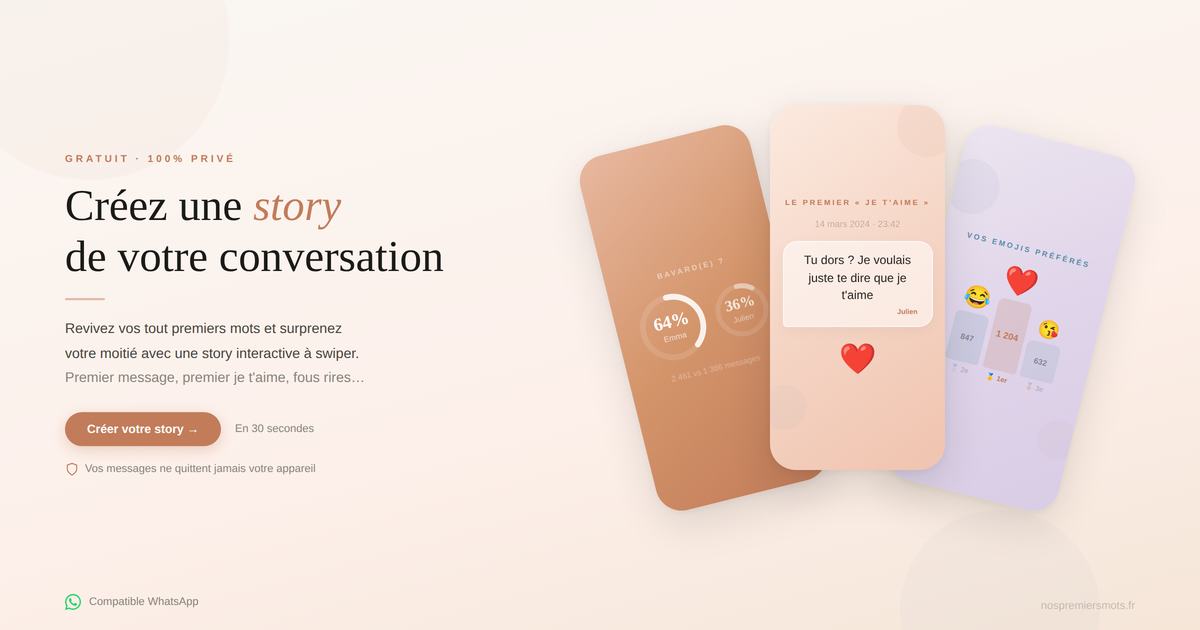
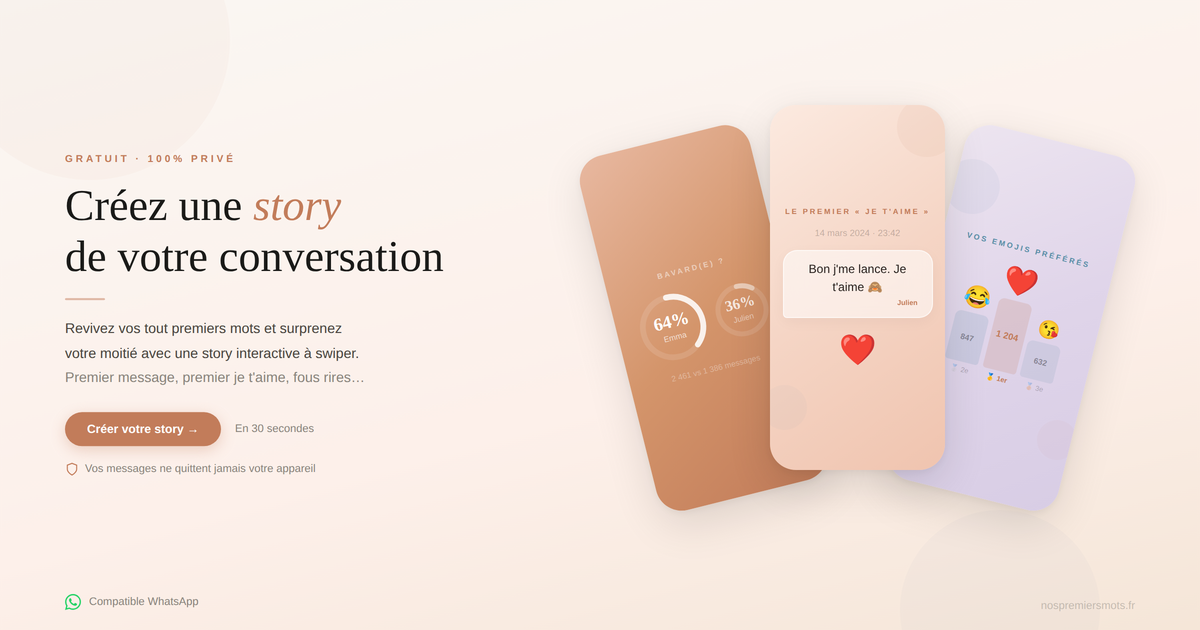
Add files via upload

Changed region(s): [[0.6475, 0.3016, 0.7708, 0.6032]]

diff --git a/index.html b/index.html
@@ -8,7 +8,7 @@
 <link rel="apple-touch-icon" sizes="180x180" href="apple-touch-icon.png">
 <meta name="viewport" content="width=device-width, initial-scale=1.0, maximum-scale=1.0, user-scalable=no">
 <title>Nos premiers mots — Votre histoire en story</title>
-<meta name="description" content="Redécouvrez vos tout premiers messages WhatsApp — le premier salut, les premiers fous rires, le premier je t'aime. Plus des stats cachées : qui est le plus bavard, emojis préférés, jour record. Story interactive gratuite à swiper ensemble.">
+<meta name="description" content="Redécouvrez vos tout premiers messages WhatsApp — le premier salut, les premiers fous rires, le premier je t'aime. Premier message, premier je t'aime, qui est le plus bavard, emojis préférés, jour record… Story interactive gratuite à swiper ensemble.">
 <link rel="preconnect" href="https://fonts.googleapis.com">
 <link href="https://fonts.googleapis.com/css2?family=Playfair+Display:ital,wght@0,400;0,500;0,600;1,400;1,500&family=Inter:wght@300;400;500;600&display=swap" rel="stylesheet">
 <style>
@@ -358,96 +358,73 @@
   .hc-podium-rank { font-size: 7px; color: rgba(0,0,0,0.25); margin-top: 2px; }
 
   @media (max-width: 900px) {
-    .hero { padding: 100px 24px 40px; min-height: auto; }
-    .hero-layout { flex-direction: column; gap: 20px; }
-    .hero-text { flex: none; width: 100%; text-align: center; }
-    .hero-cta-row { justify-content: center; }
-    .hero-privacy { justify-content: center; }
-    .hero-ami { text-align: center; }
-    .hero-compat { justify-content: center; }
+    .hero { padding: 90px 24px 20px; min-height: auto; }
+    .hero-layout { flex-direction: column; gap: 0; }
+    .hero-text {
+      flex: none; width: 100%; text-align: center;
+      position: relative; z-index: 5;
+    }
+    .hero h1 { font-size: 32px; }
+    .hero-sub { font-size: 14px; margin-bottom: 20px; }
+    .hero-cta-row { justify-content: center; margin-bottom: 12px; }
+    .hero-privacy { justify-content: center; margin-bottom: 6px; }
+    .hero-ami { text-align: center; margin-bottom: 6px; }
+    .hero-compat { justify-content: center; margin-bottom: 0; }
     .hero-trust { justify-content: center; }
-    .hero-cards { height: 340px; width: 100%; max-width: 400px; margin: 0 auto; }
-    .hc { width: 130px; height: 280px; border-radius: 20px; padding: 12px 8px; }
-    .hc-1 { --fan: -23deg; }
-    .hc-2 { --fan: -8deg; }
-    .hc-3 { --fan: 8deg; }
-    .hc-4 { --fan: 23deg; }
-    .hc:hover { transform: translateX(-50%) rotate(var(--fan)) translateY(-20px) scale(1.03) !important; }
-    .hc-chat-bubble { max-width: 105px; padding: 6px 8px; }
-    .hc-chat-text { font-size: 9px; }
-    .hc-love-heart { font-size: 22px; margin-top: 8px; }
-    .hc-podium-bar { width: 24px; }
-    .hc-msg { font-size: 8px; padding: 5px 7px; }
-    .hc-msg-more { font-size: 8px; }
-    .hc-label { font-size: 6px; letter-spacing: 2px; margin-bottom: 10px; }
-    .hc-bavard-sub { font-size: 7px; }
-    .hc-love-date { font-size: 7px; }
-  }
-  .hero-form {
-    display: flex;
-    gap: 10px;
-    max-width: 440px;
-    margin: 0 auto 16px;
-  }
-  .hero-form input {
-    flex: 1;
-    padding: 14px 20px;
-    font-size: 14px;
-    font-family: var(--font-body);
-    border: 1px solid var(--border);
-    border-radius: 100px;
-    background: white;
-    outline: none;
-    transition: border-color 0.2s;
-  }
-  .hero-form input:focus { border-color: var(--rose); }
-  .hero-form input::placeholder { color: var(--ink-muted); }
-  .hero-form button {
-    padding: 14px 28px;
-    font-size: 14px;
-    font-weight: 500;
-    font-family: var(--font-body);
-    background: var(--rose);
-    color: white;
-    border: none;
-    border-radius: 100px;
-    cursor: pointer;
-    white-space: nowrap;
-    transition: transform 0.2s, opacity 0.2s;
-  }
-  .hero-form button:hover { transform: scale(1.03); opacity: 0.9; }
-  .hero-note {
-    font-size: 12px;
-    color: var(--ink-muted);
+    .hero-cards {
+      position: relative;
+      width: 100%;
+      margin: 20px auto 0;
+      display: flex;
+      justify-content: center;
+      padding: 0 10px;
+    }
+    .hc {
+      position: relative;
+      width: 105px;
+      height: 220px;
+      border-radius: 16px;
+      padding: 10px 7px;
+      bottom: auto; left: auto; top: auto;
+      transform-origin: center;
+      transform: none;
+      margin-left: -18px;
+      flex-shrink: 0;
+    }
+    .hc:first-child { margin-left: 0; }
+    .hc-1 { transform: rotate(-4deg); z-index: 1; }
+    .hc-2 { transform: rotate(-1deg) translateY(-6px); z-index: 2; }
+    .hc-3 { transform: rotate(1deg) translateY(-6px); z-index: 3; }
+    .hc-4 { transform: rotate(4deg); z-index: 2; }
+    .hc:hover {
+      transform: translateY(-10px) scale(1.03) !important;
+      z-index: 10 !important;
+    }
+    .hc-label { font-size: 5px; letter-spacing: 1.5px; margin-bottom: 6px; }
+    .hc-ring-wrap { gap: 4px; }
+    .hc-ring-wrap svg { width: 44px; height: 44px; }
+    .hc-ring-pct { font-size: 12px !important; }
+    .hc-ring-name { font-size: 6px; }
+    .hc-bavard-sub { font-size: 5px; margin-top: 4px; }
+    .hc-chat-bubble { max-width: 90px; padding: 4px 6px; margin-bottom: 3px; }
+    .hc-chat-sender { font-size: 4px; }
+    .hc-chat-text { font-size: 8px; line-height: 1.3; }
+    .hc-chat-time { font-size: 3.5px; }
+    .hc-love-date { font-size: 5px; margin-bottom: 5px; }
+    .hc-love-heart { font-size: 18px; margin-top: 4px; }
+    .hc-podium { gap: 3px; }
+    .hc-podium-bar { width: 18px; }
+    .hc-podium-count { font-size: 6px; }
+    .hc-podium-rank { font-size: 4.5px; }
+    .hc-podium-item div[style*="font-size:22px"] { font-size: 16px !important; }
+    .hc-podium-item div[style*="font-size:28px"] { font-size: 20px !important; }
+    .hc-podium-item div[style*="font-size:18px"] { font-size: 14px !important; }
+    .hc-msg { font-size: 6px; padding: 3px 5px; }
+    .hc-msg-sender { font-size: 4px; }
+    .hc-msg-time { font-size: 3px; }
+    .hc-msg-more { font-size: 6px; margin-top: 4px; }
   }
 
-  /* ═══ PLATFORMS ═══ */
-  .platforms {
-    margin-top: 32px;
-    text-align: center;
-  }
-  .platform-label {
-    font-size: 11px;
-    color: var(--ink-muted);
-    letter-spacing: 1px;
-    text-transform: uppercase;
-    display: block;
-    margin-bottom: 12px;
-  }
-  .platform-logos {
-    display: flex;
-    justify-content: center;
-    gap: 24px;
-    flex-wrap: wrap;
-  }
-  .platform-item {
-    display: flex;
-    align-items: center;
-    gap: 6px;
-    font-size: 13px;
-    color: var(--ink-soft);
-    font-weight: 400;
-  }
 
   /* ═══ PHONE MOCKUP ═══ */
   .mockup-section {
@@ -1413,8 +1390,6 @@
   /* ═══ RESPONSIVE ═══ */
   @media (max-width: 600px) {
     nav { padding: 12px 16px; }
-    .hero-form, .final-form { flex-direction: column; }
-    .hero-form button, .final-form button { width: 100%; }
     .formats-grid { grid-template-columns: 1fr; }
     .phone-wrapper { max-width: 200px; }
   }
@@ -1473,82 +1448,6 @@
     font-size: 18px;
     color: var(--rose);
     font-style: italic;
-  }
-  /* ═══ FAN OF CARDS ═══ */
-  .fan-section { padding: 60px 24px 80px; overflow: hidden; }
-  .fan-container { max-width: 900px; margin: 0 auto; position: relative; height: 420px; }
-  .fan-card {
-    position: absolute;
-    width: 200px; height: 400px;
-    border-radius: 28px;
-    display: flex; flex-direction: column; align-items: center; justify-content: center;
-    padding: 22px 14px;
-    box-shadow: 0 16px 48px rgba(0,0,0,0.10), 0 4px 12px rgba(0,0,0,0.05);
-    overflow: hidden; text-align: center;
-    left: 50%; top: 50%;
-    transform-origin: 50% 100%;
-    transition: transform 0.6s cubic-bezier(0.23,1,0.32,1);
-  }
-  .fan-card .fc-shape { position: absolute; border-radius: 50%; pointer-events: none; }
-  .fan-card .fc-label {
-    font-size: 8px; letter-spacing: 2.5px; text-transform: uppercase;
-    font-weight: 600; margin-bottom: 14px; z-index: 1;
-  }
-  /* Left: Bavard */
-  .fan-card-1 {
-    background: linear-gradient(145deg, #E8B8A0, #D4956B 50%, #C27C5A);
-    transform: translate(-50%, -50%) rotate(-14deg) translateX(-110px);
-    z-index: 1;
-  }
-  .fc-ring-wrap { display: flex; gap: 8px; align-items: center; z-index: 1; }
-  .fc-ring { position: relative; display: flex; align-items: center; justify-content: center; }
-  .fc-ring-inner { position: absolute; display: flex; flex-direction: column; align-items: center; }
-  .fc-ring-pct { font-family: var(--font-display); font-weight: 700; color: #fff; }
-  .fc-ring-name { font-size: 9px; margin-top: 2px; }
-  .fc-bavard-sub { font-size: 9px; color: rgba(255,255,255,0.35); margin-top: 12px; z-index: 1; }
-  /* Center: Je t'aime */
-  .fan-card-2 {
-    background: linear-gradient(145deg, #FCEAE0, #F5D5C5 50%, #F0C4AF);
-    transform: translate(-50%, -50%) rotate(0deg);
-    z-index: 3;
-  }
-  .fc-love-date { font-size: 10px; color: rgba(0,0,0,0.22); margin-bottom: 14px; z-index: 1; }
-  .fc-love-bubble {
-    background: rgba(255,255,255,0.55); backdrop-filter: blur(12px);
-    border-radius: 16px 16px 16px 4px; padding: 12px 16px; max-width: 170px;
-    border: 1px solid rgba(255,255,255,0.6);
-    box-shadow: 0 4px 16px rgba(0,0,0,0.04); z-index: 1;
-  }
-  .fc-love-text { font-size: 14px; color: #2A2320; line-height: 1.5; }
-  .fc-love-sender { font-size: 8px; color: rgba(0,0,0,0.22); margin-top: 5px; text-align: right; }
-  .fc-love-sender strong { color: var(--rose); font-weight: 600; }
-  .fc-love-heart { margin-top: 16px; font-size: 36px; z-index: 1; }
-  /* Right: Emojis */
-  .fan-card-3 {
-    background: linear-gradient(145deg, #EDE5F0, #E0D5EA 50%, #D8CDE5);
-    transform: translate(-50%, -50%) rotate(14deg) translateX(110px);
-    z-index: 2;
-  }
-  .fc-podium { display: flex; align-items: flex-end; gap: 5px; margin-bottom: 10px; z-index: 1; }
-  .fc-podium-item { display: flex; flex-direction: column; align-items: center; gap: 3px; }
-  .fc-podium-bar {
-    width: 38px; border-radius: 7px 7px 3px 3px;
-    display: flex; align-items: center; justify-content: center; padding: 4px 0;
-  }
-  .fc-podium-count { font-size: 9px; font-weight: 700; color: rgba(0,0,0,0.35); }
-  .fc-podium-rank { font-size: 7px; color: rgba(0,0,0,0.25); margin-top: 2px; }
-
-  @media (max-width: 600px) {
-    .fan-container { height: 360px; }
-    .fan-card { width: 155px; height: 320px; padding: 16px 10px; border-radius: 22px; }
-    .fan-card-1 { transform: translate(-50%, -50%) rotate(-12deg) translateX(-80px); }
-    .fan-card-3 { transform: translate(-50%, -50%) rotate(12deg) translateX(80px); }
-    .fc-ring-wrap svg { width: 60px; height: 60px; }
-    .fc-ring-pct { font-size: 15px !important; }
-    .fc-love-bubble { max-width: 130px; padding: 10px 12px; }
-    .fc-love-text { font-size: 12px; }
-    .fc-love-heart { font-size: 28px; }
-    .fc-podium-bar { width: 30px; }
   }
 </style>
 <meta property="og:image" content="https://azorzki.github.io/nospremiersmots/og-image.png">
@@ -1644,7 +1543,7 @@
         <div class="hc-love-date">14 mars 2024 · 23:42</div>
         <div class="hc-chat-bubble">
           <div class="hc-chat-sender">Julien</div>
-          <div class="hc-chat-text">Hey... je crois bien que je t'aime</div>
+          <div class="hc-chat-text">Bon j'me lance. Je t'aime 🙈</div>
           <div class="hc-chat-time">23:42</div>
         </div>
         <div class="hc-love-heart">❤</div>
@@ -1846,10 +1745,7 @@
             <span style="color:var(--rose); font-weight:600;">✓</span> Livré chez vous en 5 jours
           </div>
         </div>
-        <form onsubmit="handleSignup(event, this)" style="display:flex; flex-wrap:wrap; gap:8px; justify-content:center;">
-          <input type="email" placeholder="votre@email.com" required style="flex:1; min-width:180px; padding:12px 16px; font-size:13px; font-family:var(--font-body); border:1px solid var(--border); border-radius:100px; outline:none;">
-          <button type="submit" style="padding:12px 24px; font-size:13px; font-weight:500; font-family:var(--font-body); background:var(--rose); color:white; border:none; border-radius:100px; cursor:pointer; white-space:nowrap;">Me prévenir</button>
-        </form>
+        <a href="mailto:contact@nospremiersmots.fr?subject=Livre%20imprim%C3%A9%20%E2%80%94%20Je%20veux%20%C3%AAtre%20pr%C3%A9venu(e)&body=Bonjour%2C%0A%0AJe%20souhaite%20%C3%AAtre%20pr%C3%A9venu(e)%20quand%20le%20livre%20imprim%C3%A9%20sera%20disponible.%0A%0AMerci%20!" style="display:inline-block; padding:12px 28px; font-size:13px; font-weight:500; font-family:var(--font-body); background:var(--rose); color:white; border:none; border-radius:100px; cursor:pointer; text-decoration:none;">Me prévenir →</a>
         <div style="font-size:11px; color:var(--ink-muted); margin-top:10px;">On vous envoie un email quand c'est prêt. Pas de spam.</div>
       </div>
     </div>
@@ -1859,7 +1755,7 @@
 <!-- FINAL CTA -->
 <section class="final-cta">
   <h2>Vous vous souvenez de votre<br/>premier <em>message</em> ?</h2>
-  <p>Redécouvrez-le. Et avec lui, toutes les petites stats cachées de votre conversation. Le plus beau cadeau que vous puissiez offrir — et c'est gratuit.</p>
+  <p>Redécouvrez-le. Et avec lui, toutes les petites pépites de votre conversation. Le plus beau cadeau que vous puissiez offrir — et c'est gratuit.</p>
   <a href="creer.html" class="nav-cta" style="display:inline-block; padding:16px 40px; font-size:15px; text-decoration:none; box-shadow:0 4px 16px rgba(194,124,90,0.3);">Créer ma story →</a>
   <p class="final-note" style="margin-top:16px;">30 secondes · Aucun compte · 100% privé</p>
 </section>
@@ -1871,60 +1767,6 @@
 
 <!-- THANK YOU SCRIPT -->
 <script>
-// ══ FORMSPREE ══
-// 1. Va sur https://formspree.io et crée un compte gratuit
-// 2. Crée un nouveau formulaire
-// 3. Remplace XXXXXXXX ci-dessous par ton ID Formspree
-const FORMSPREE_ID = 'xppaapze';
-
-async function handleSignup(e, form) {
-  e.preventDefault();
-  const email = form.querySelector('input').value;
-  const btn = form.querySelector('button');
-  const originalText = btn.textContent;
-  btn.textContent = 'Envoi...';
-  btn.disabled = true;
-
-  try {
-    const res = await fetch(`https://formspree.io/f/${FORMSPREE_ID}`, {
-      method: 'POST',
-      headers: { 'Content-Type': 'application/json' },
-      body: JSON.stringify({ email: email, _subject: 'Nouvelle inscription Nos Premiers Mots !' })
-    });
-    
-    if (res.ok) {
-      btn.textContent = '✓ Inscrit !';
-      btn.style.background = '#5BA87A';
-      form.querySelector('input').value = '';
-      form.querySelector('input').placeholder = 'Merci ! On vous prévient bientôt 💕';
-    } else {
-      btn.textContent = 'Erreur, réessayez';
-      btn.style.background = '#D45B5B';
-    }
-  } catch (err) {
-    // Fallback si Formspree pas encore configuré
-    btn.textContent = '✓ Inscrit !';
-    btn.style.background = '#5BA87A';
-    form.querySelector('input').value = '';
-    form.querySelector('input').placeholder = 'Merci ! On vous prévient bientôt 💕';
-  }
-
-  btn.disabled = false;
-  setTimeout(() => {
-    btn.textContent = originalText;
-    btn.style.background = '';
-  }, 3000);
-}
-
-// Smooth scroll for anchor links
-document.querySelectorAll('a[href^="#"]').forEach(a => {
-  a.addEventListener('click', e => {
-    e.preventDefault();
-    const target = document.querySelector(a.getAttribute('href'));
-    if (target) target.scrollIntoView({ behavior: 'smooth', block: 'center' });
-  });
-});
-
 // ═══ STORY PREVIEW — DA v5 ═══
 
 // Ring SVG helper (matching creer.html)
